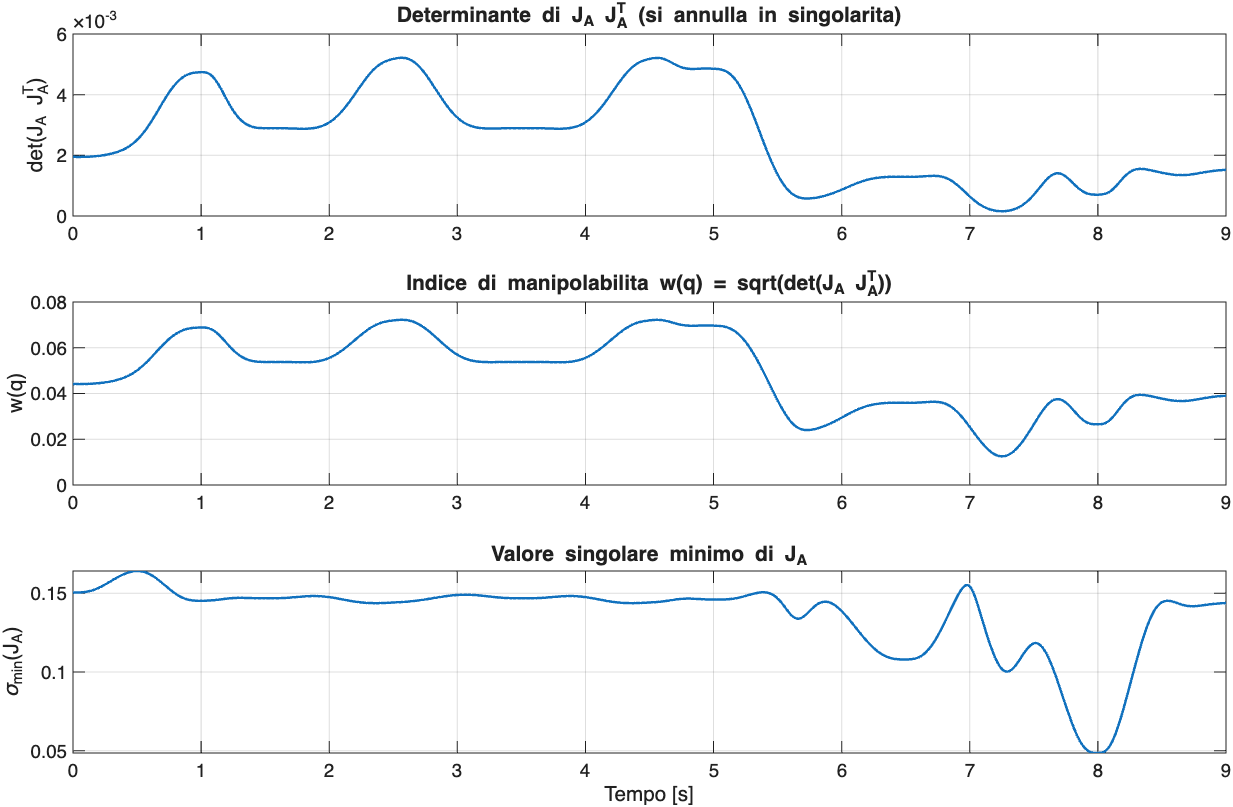
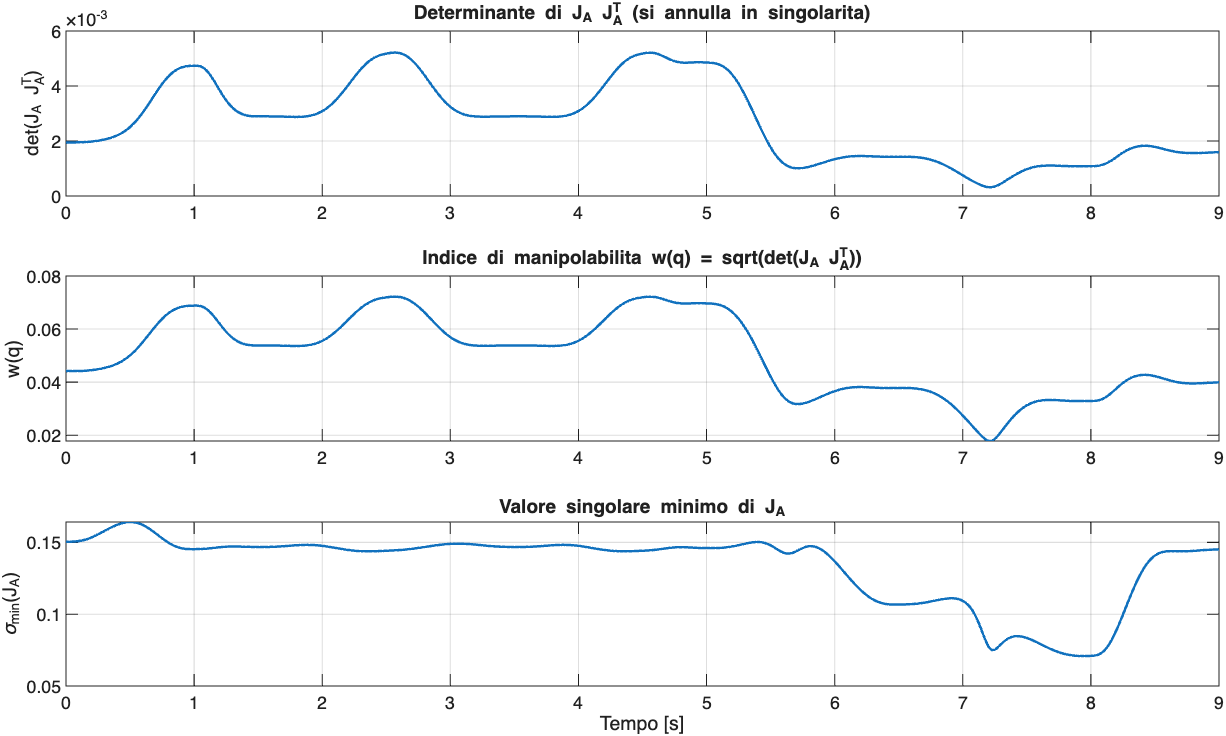
Fix dei grafici e di alcuni script

diff --git a/Homework2/cost_function.m b/Homework2/cost_function.m
@@ -1,15 +1,9 @@
-function [f, grad_f] = cost_function(q, dq, t, Ja)
-% Funzione di costo complessiva f(q, t) e suo gradiente per
-% la proiezione nello spazio nullo
+function [f, grad_f] = cost_function(q, t, Ja)
 
     q = q(:);
     n = length(q);
 
-    if nargin < 2 || isempty(t)
-        t = 0;
-    end
-
-    % ======================== PARAMETRI =================================
+    % PARAMETRI
     % Pesi dei tre contributi (0 per disattivare un termine)
     k_lim  = 100.0;   % mantenimento limiti di giunto
     k_saluto = 1.0;   % mantenimento postura durante il saluto
@@ -20,7 +14,7 @@ function [f, grad_f] = cost_function(q, dq, t, Ja)
     % restano fissi (spalla e gomito).
     W_saluto = diag([5.0, 5.0, 0.0, 5.0, 0.5, 0.5, 0.5]);
 
-    % Finestra temporale del saluto (passi 2 -> 6 in trajectory.m: t in [3, 15] s)
+    % Finestra temporale del saluto (passi 2 -> 6 in trajectory.m: t in [1, 5] s)
     t_wave_start = 1.0;
     t_wave_end   = 5.0;
     t_ramp       = 0.25;   % durata rampa liscia
@@ -28,7 +22,7 @@ function [f, grad_f] = cost_function(q, dq, t, Ja)
     % Passo per differenze finite del termine di singolarita'
     delta   = 1e-5;      % variazione per calcolo delle derivate parziali
     epsilon = 1e-8;      % per evitare divisione per 0 in singolarita'
-    % ====================================================================
+
 
     % Limiti di giunto
     qMinDH = [-3.1416; -1.5708; -4.7124; -0.6792; -1.3963; -2.9671; -1.5708];
@@ -39,7 +33,8 @@ function [f, grad_f] = cost_function(q, dq, t, Ja)
     % Configurazione di riferimento pre-saluto (corrisponde a q_goal_pre in trajectory.m)
     q_ref = [-pi/3; -1.42; -pi/2; pi/20; 0; -pi/2; 0];
 
-    % ======================== FUNZIONI DI COSTO =========================
+    
+
     % 1) Evitamento limiti di giunto: f_lim(q)
     % f_lim = (k_lim / (2*n)) * sum( ((q_j - q_mean_j) / (qMax_j - qMin_j))^2 )
     if k_lim > 0
@@ -64,7 +59,7 @@ function [f, grad_f] = cost_function(q, dq, t, Ja)
     end
 
     % 3) Evitamento singolarita': f_sing(q) = -k_sing * w(q)
-    % Massimizza la manipolabilita' di Yoshikawa citata nel paper:
+    % Massimizza la manipolabilita' citata nel paper:
     % w(q) = sqrt(det(Ja * Ja'))
     if k_sing > 0
         w = sqrt(max(det(Ja * Ja'), 0) + epsilon);
@@ -97,6 +92,7 @@ end
 % Funzione ausiliaria: finestra temporale liscia C^1 in [0, 1] 
 %       _________
 % _____/         \_____
+%
 
 function alpha = smooth_window(t, t_start, t_end, t_ramp)
     if t <= (t_start - t_ramp) || t >= (t_end + t_ramp)

diff --git a/Homework2/MAIN_homework2.m b/Homework2/MAIN_homework2.m
@@ -18,24 +18,24 @@ qMaxDH = [3.1416    1.5708    1.5708   1.6708    1.3963    -0.1745    1.5708]'; 
 
 % Modalita' sincrona (stepping): applica tutti e 7 i giunti nello stesso frame
 % evitando gli scatti dovuti alla latenza ZMQ.
-% Nota: in CoppeliaSim 4.6+ si usa sim.setStepping(true) / sim.step();
-% nelle versioni 4.3-4.5 usare client.setStepping(true) / client.step().
 sim.setStepping(true);
 simulator = SimProjectUtils(sim);
 
 N = size(q, 1);
 dT = 0.001;
-step = 25; % 25 ms = dt di default di CoppeliaSim (40 FPS; usa 25 se imposti dt=25 ms)
+step = 25; % 25 ms = dt di default di CoppeliaSim (40 FPS)
 
 t_start = tic;
 for k = 1:step:N
     simulator.moveLeftArm(q(k, :));
     sim.step();
+
     if k == 6501
         simulator.graspObject();
     elseif k == 8001
         simulator.releaseObject();
     end
+
     % Sincronizza al tempo reale senza accumulare ritardo
     t_wait = (k - 1) * dT - toc(t_start);
     if t_wait > 0
@@ -45,14 +45,11 @@ end
 simulator.moveLeftArm(q(end, :));
 sim.step();
 
-% Useful functions to grasp/release objects: 
-% simulator.graspObject();
-% simulator.releaseObject();
 
 %% Plot dei risultati
 plot_results(xd, dxd, ddxd, x, dx, ddx, q, dq, ddq, qMinDH, qMaxDH, dT);
 
-%% Funzione locale di plot
+% Funzione locale di plot
 function plot_results(xd, dxd, ddxd, x, dx, ddx, q, dq, ddq, qMinDH, qMaxDH, dT)
     N = size(q, 1);
     t = (0:N-1) * dT;
@@ -156,8 +153,6 @@ function plot_results(xd, dxd, ddxd, x, dx, ddx, q, dq, ddq, qMinDH, qMaxDH, dT)
     end
 
     % --- Figura 5: Analisi singolarita' (det(Ja*Ja'), manipolabilita', sigma_min) ---
-    % Nota: pinv(Ja)*Ja e' 7x7 di rango <= 6, quindi il suo determinante e' sempre 0.
-    % Per misurare la vicinanza alle singolarita' si usa Ja*Ja' (6x6) e sigma_min(Ja).
     idx_s = 1:10:N; % sottocampionamento (ogni 10 ms) per velocizzare il plot
     t_s = t(idx_s);
     det_JJt = zeros(size(idx_s));

diff --git a/Homework2/inverse_kin.m b/Homework2/inverse_kin.m
@@ -37,7 +37,7 @@ function [X,dX,ddX,Q,dQ,ddQ] = inverse_kin(q0, xd, dxd, ddxd)
         e = xd_i - x;
         e(4:6) = atan2(sin(e(4:6)), cos(e(4:6)));
 
-        term1 = ddxd_i + Kd*(dxd_i - dx) + Kp*e;
+        term1 = ddxd_i + Kd * (dxd_i - dx) + Kp * e;
         ddx = term1;
         
         Ja_next = analytical_jacobian(q + h * dq, 'ZYZ');
@@ -51,7 +51,7 @@ function [X,dX,ddX,Q,dQ,ddQ] = inverse_kin(q0, xd, dxd, ddxd)
 
         % aggiunta della proiezione nel nullo
         t = (i - 1) * dT;
-        [~, grad_f] = cost_function(q, dq, t, Ja);
+        [~, grad_f] = cost_function(q, t, Ja);
         g = - grad_f;
         if i == 1
             dg = zeros(7,1);
@@ -62,6 +62,7 @@ function [X,dX,ddX,Q,dQ,ddQ] = inverse_kin(q0, xd, dxd, ddxd)
         dJa_pinv = (pinv(Ja_next) - Ja_pinv) / h;
         n_projection = (eye(7) - Ja_pinv * Ja);
         de_n = n_projection * (g - dq);
+
         phi_n = n_projection * (dg + Kn * de_n) - ...
                 (Ja_pinv * dJa * Ja_pinv  + dJa_pinv) * Ja * (g - dq);
         
@@ -76,8 +77,8 @@ function [X,dX,ddX,Q,dQ,ddQ] = inverse_kin(q0, xd, dxd, ddxd)
         ddQ(i,:) = ddq;
     
         % integrazione Euler forward
-        dq = dq + ddq*dT;
-        q = q + dq*dT;
+        dq = dq + ddq * dT;
+        q = q + dq * dT;
        
     end
 end

diff --git a/Homework2/trajectory.m b/Homework2/trajectory.m
@@ -28,15 +28,15 @@ function [xd, dxd, ddxd] = trajectory()
 
 
     % posizione della punta del cappello e orientamento ZYZ desiderato
-    % (variando solo gamma da 4*pi/9 a -pi/18 il cappello ruota solo attorno a zb restando dritto)
+    % (variando solo gamma da 4*pi/9 a -pi/18 il cappello ruota restando dritto)
     phi_cap = [4*pi/9; 5*pi/9; -5*pi/6];
     x_goal_cap = [0.025; 0.75; 0.76; phi_cap];
-    pos_centro_cap = [-0.205211; 0.097014; 0.976564]; % centro arco passo 7 (freccia 15 cm verso l'esterno)
+    pos_centro_cap = [-0.20; 0.09; 0.96];
 
     % posizione della testa del pupazzo di neve e orientamento ZYZ desiderato
     phi_head = [-pi/18; 5*pi/9; -5*pi/6];
     x_goal_head = [0.65; 0.13; 0.99; phi_head];
-    pos_centro_head = [0.253037; 0.288138; 0.695151]; % centro arco passo 8 (freccia 20 cm in alto, 18 cm verso l'esterno)
+    pos_centro_head = [0.23; 0.27; 0.71];
 
     % -------------------------------------------------------------------
 

diff --git a/Homework2/xd_arco_circ.m b/Homework2/xd_arco_circ.m
@@ -1,7 +1,7 @@
 function [xd, dxd, ddxd] = xd_arco_circ(centro_o_q, x_start, x_goal, tf, t_step)
     
-    % Accetta sia una configurazione ai giunti q (7 elementi -> centro al gomito)
-    % sia direttamente le coordinate [x; y; z] del centro (3 elementi)
+    % Accetta sia una configurazione ai giunti q
+    % sia direttamente le coordinate [x; y; z] del centro
     if numel(centro_o_q) == 3
         pos_centro = centro_o_q(:);
     else

diff --git a/Homework2/geometric_jacobian.m b/Homework2/geometric_jacobian.m
@@ -7,7 +7,7 @@ function [J, A_b_e] = geometric_jacobian(q)
     k = length(A_array);
     A_b_e = A_array{end};
 
-    % STRUTTURA DEL JACOBIANO GEOMETRICO
+    % STRUTTURA DELLO JACOBIANO GEOMETRICO
     % |                             |
     % |   z_(i-1) x (P_e - o_(i-1)) |
     % |                             |
